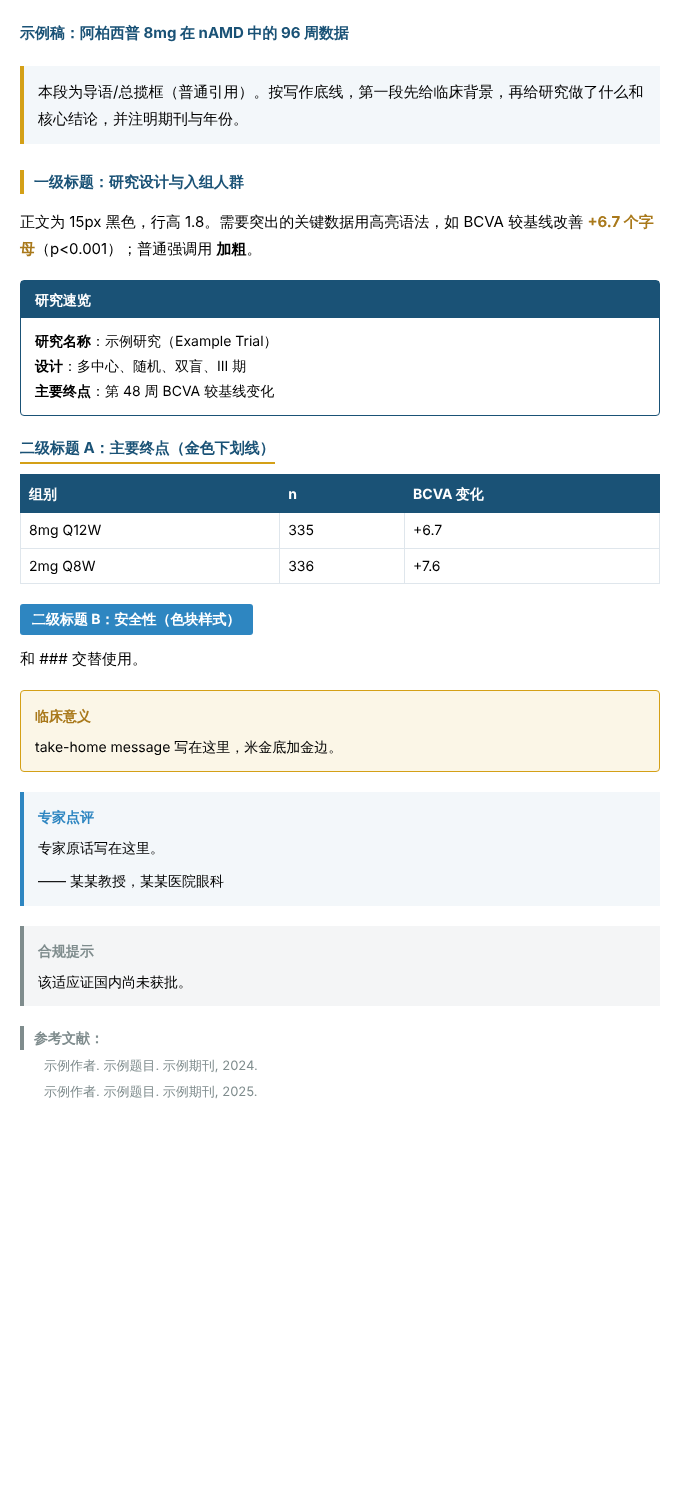
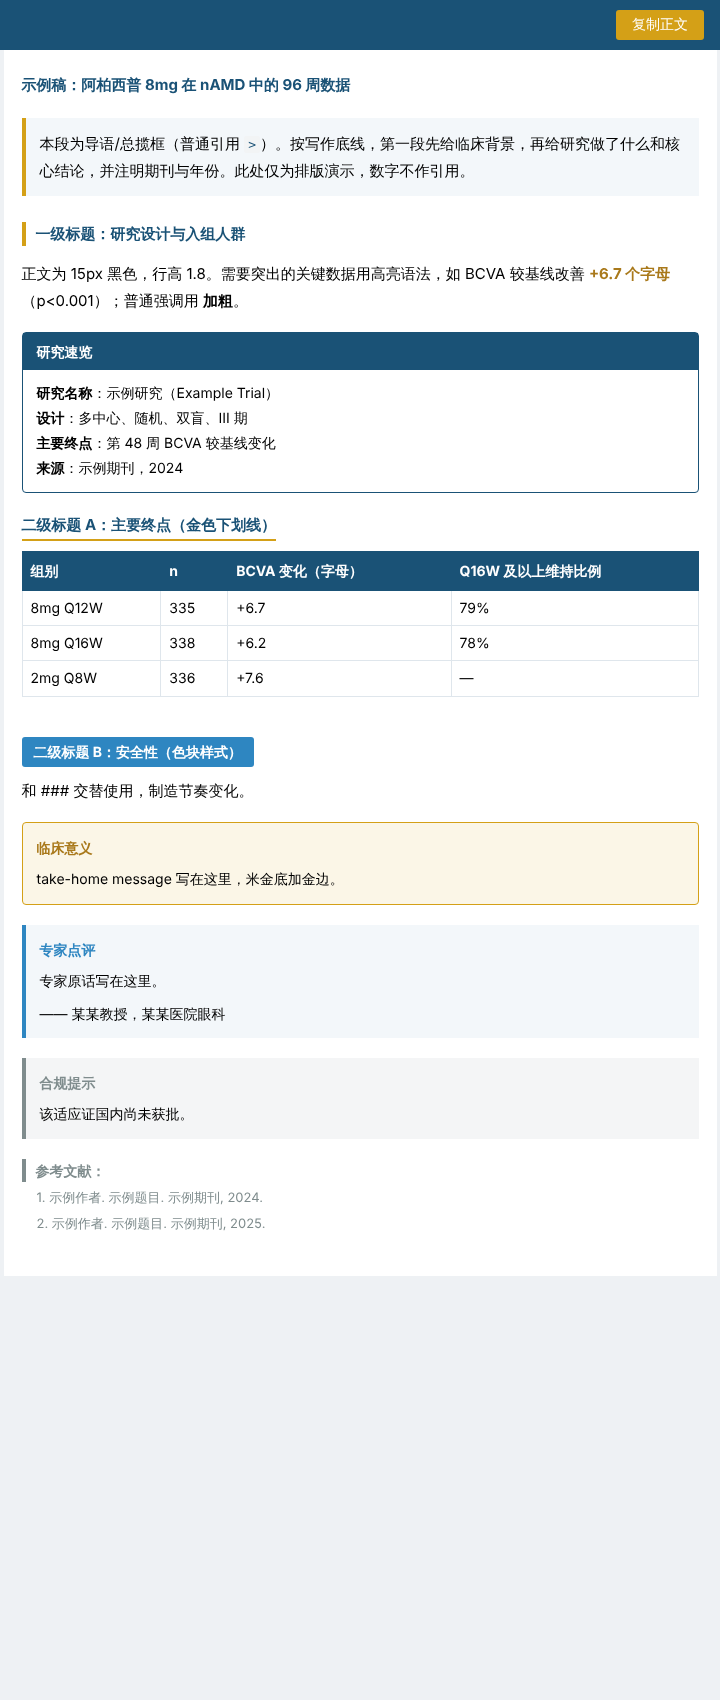
新增 md2wechat：doocs/md 渲染 + juice 内联 + 微信规范自检，一条命令出可粘贴 HTML
Claude-Session: https://claude.ai/code/session_0115fqipwp36LcXrNxmswJRV

Changed region(s): [[0.0, 0.0, 1.0, 0.736], [0.9574, 0.4907, 0.9882, 0.5213], [0.9265, 0.1227, 0.9574, 0.1533]]

diff --git a/wechat-md-theme/示例稿.蓝金.html b/wechat-md-theme/示例稿.蓝金.html
@@ -1,0 +1,52 @@
+<!doctype html>
+<html lang="zh-CN"><head><meta charset="utf-8"><meta name="viewport" content="width=device-width,initial-scale=1">
+<title>示例稿</title></head>
+<body style="margin:0; background:#eef1f4;">
+<div style="position:sticky; top:0; z-index:99; background:#1a5276; padding:10px 16px; text-align:right;">
+<button onclick="copyContent()" style="background:#d4a017; color:#ffffff; border:none; padding:6px 16px; border-radius:3px; font-size:14px; cursor:pointer;">复制正文</button>
+</div>
+<div id="article" style="max-width:677px; margin:0 auto; background:#ffffff; padding:22px 18px; font-size:15px; line-height:1.8; color:#000000; text-align:left;">
+
+<section style="font-family: -apple-system, 'PingFang SC', 'Microsoft YaHei', sans-serif; font-size: 15px; line-height: 1.8; color: #000000; text-align: left;"><h1 data-heading="true" style="border-bottom: 2px solid #0F4C81; display: block; margin: 0 0 20px; padding: 0; border: none; background: none; font-size: 15px; font-weight: bold; line-height: 1.7; color: #1a5276; text-align: left;">示例稿：阿柏西普 8mg 在 nAMD 中的 96 周数据</h1><blockquote style="margin-bottom: 1em; margin: 0 0 20px; padding: 12px 14px; border: none; border-left: 4px solid #d4a017; border-radius: 0; background: #f3f7fa; font-style: normal; color: #000000; text-align: left; margin-left: 0; margin-right: 0; margin-top: 0;"><p style="padding: 0; display: block; margin: 0 0 8px; font-size: 15px; line-height: 1.8; letter-spacing: 0; color: #000000; text-align: left; margin-bottom: 0;">本段为导语/总揽框（普通引用 <code style="font-size: 13px; color: #1a5276; background: #f2f4f5; padding: 1px 4px; border-radius: 2px;">&gt;</code>）。按写作底线，第一段先给临床背景，再给研究做了什么和核心结论，并注明期刊与年份。此处仅为排版演示，数字不作引用。</p></blockquote><h2 data-heading="true" style="display: block; margin: 26px 0 14px; padding: 0 0 0 10px; border: none; border-left: 4px solid #d4a017; background: none; font-size: 15px; font-weight: bold; line-height: 1.6; color: #1a5276; text-align: left;">一级标题：研究设计与入组人群</h2><p style="margin: 0 0 18px; padding: 0; font-size: 15px; line-height: 1.8; letter-spacing: 0; color: #000000; text-align: left;">正文为 15px 黑色，行高 1.8。需要突出的关键数据用高亮语法，如 BCVA 较基线改善 <span style="background-color: #0F4C81; background: none; padding: 0; border-radius: 0; font-weight: bold; color: #a9791b;">+6.7 个字母</span>（p&lt;0.001）；普通强调用 <strong style="font-size: inherit; font-weight: bold; color: #000000;">加粗</strong>。</p><blockquote style="margin-bottom: 1em; margin: 0 0 20px; border-left: 4px solid #d4a017; font-style: normal; color: #000000; text-align: left; margin-left: 0; margin-right: 0; margin-top: 0; padding: 0 14px 12px; border: 1px solid #1a5276; border-radius: 4px; background: #ffffff;">
+<p style="line-height: 1.8; letter-spacing: 0; align-items: center; gap: 0.5em; margin-bottom: 0.5em; display: block; font-weight: bold; text-align: left; margin: 0 -14px 10px; padding: 6px 14px; background: #1a5276; font-size: 14px; color: #ffffff;">研究速览</p>
+<p style="padding: 0; display: block; margin: 0 0 8px; line-height: 1.8; letter-spacing: 0; color: #000000; text-align: left; margin-bottom: 0; font-size: 14px;"><strong style="font-size: inherit; font-weight: bold; color: #000000;">研究名称</strong>：示例研究（Example Trial）<br><strong style="font-size: inherit; font-weight: bold; color: #000000;">设计</strong>：多中心、随机、双盲、III 期<br><strong style="font-size: inherit; font-weight: bold; color: #000000;">主要终点</strong>：第 48 周 BCVA 较基线变化<br><strong style="font-size: inherit; font-weight: bold; color: #000000;">来源</strong>：示例期刊，2024</p></blockquote>
+<h3 data-heading="true" style="padding-left: 8px; border-left: 3px solid #0F4C81; display: table; margin: 20px 0 10px; padding: 0 0 2px; border: none; border-bottom: 2px solid #d4a017; background: none; font-size: 15px; font-weight: bold; line-height: 1.6; color: #1a5276; text-align: left;">二级标题 A：主要终点（金色下划线）</h3>
+        <section style="font-family: -apple-system, 'PingFang SC', 'Microsoft YaHei', sans-serif; font-size: 15px; line-height: 1.8; color: #000000; text-align: left; max-width: 100%; overflow: auto; -webkit-overflow-scrolling: touch;">
+          <table style="width: 100%; margin: 0 0 20px; font-size: 14px; color: #000000; border-collapse: collapse; min-width: 100%;" width="100%">
+            <thead style="font-weight: bold; background: #1a5276; color: #ffffff;"><tr><th style="word-break: keep-all; padding: 6px 8px; border: 1px solid #1a5276; background: #1a5276; font-weight: bold; color: #ffffff; text-align: left;" align="left">组别</th><th style="word-break: keep-all; padding: 6px 8px; border: 1px solid #1a5276; background: #1a5276; font-weight: bold; color: #ffffff; text-align: left;" align="left">n</th><th style="word-break: keep-all; padding: 6px 8px; border: 1px solid #1a5276; background: #1a5276; font-weight: bold; color: #ffffff; text-align: left;" align="left">BCVA 变化（字母）</th><th style="word-break: keep-all; padding: 6px 8px; border: 1px solid #1a5276; background: #1a5276; font-weight: bold; color: #ffffff; text-align: left;" align="left">Q16W 及以上维持比例</th></tr></thead>
+            <tbody><tr><td style="word-break: keep-all; padding: 6px 8px; border: 1px solid #dfe6ec; line-height: 1.6; color: #000000; text-align: left;" align="left">8mg Q12W</td><td style="word-break: keep-all; padding: 6px 8px; border: 1px solid #dfe6ec; line-height: 1.6; color: #000000; text-align: left;" align="left">335</td><td style="word-break: keep-all; padding: 6px 8px; border: 1px solid #dfe6ec; line-height: 1.6; color: #000000; text-align: left;" align="left">+6.7</td><td style="word-break: keep-all; padding: 6px 8px; border: 1px solid #dfe6ec; line-height: 1.6; color: #000000; text-align: left;" align="left">79%</td></tr><tr><td style="word-break: keep-all; padding: 6px 8px; border: 1px solid #dfe6ec; line-height: 1.6; color: #000000; text-align: left;" align="left">8mg Q16W</td><td style="word-break: keep-all; padding: 6px 8px; border: 1px solid #dfe6ec; line-height: 1.6; color: #000000; text-align: left;" align="left">338</td><td style="word-break: keep-all; padding: 6px 8px; border: 1px solid #dfe6ec; line-height: 1.6; color: #000000; text-align: left;" align="left">+6.2</td><td style="word-break: keep-all; padding: 6px 8px; border: 1px solid #dfe6ec; line-height: 1.6; color: #000000; text-align: left;" align="left">78%</td></tr><tr><td style="word-break: keep-all; padding: 6px 8px; border: 1px solid #dfe6ec; line-height: 1.6; color: #000000; text-align: left;" align="left">2mg Q8W</td><td style="word-break: keep-all; padding: 6px 8px; border: 1px solid #dfe6ec; line-height: 1.6; color: #000000; text-align: left;" align="left">336</td><td style="word-break: keep-all; padding: 6px 8px; border: 1px solid #dfe6ec; line-height: 1.6; color: #000000; text-align: left;" align="left">+7.6</td><td style="word-break: keep-all; padding: 6px 8px; border: 1px solid #dfe6ec; line-height: 1.6; color: #000000; text-align: left;" align="left">—</td></tr></tbody>
+          </table>
+        </section>
+      <h4 data-heading="true" style="display: table; margin: 20px 0 10px; padding: 4px 12px; border: none; border-radius: 3px; background: #2e86c1; font-size: 14px; font-weight: bold; line-height: 1.6; color: #ffffff; text-align: left;">二级标题 B：安全性（色块样式）</h4><p style="margin: 0 0 18px; padding: 0; font-size: 15px; line-height: 1.8; letter-spacing: 0; color: #000000; text-align: left;">和 ### 交替使用，制造节奏变化。</p><blockquote style="margin-bottom: 1em; margin: 0 0 20px; padding: 12px 14px; border-left: 4px solid #d4a017; font-style: normal; color: #000000; text-align: left; margin-left: 0; margin-right: 0; margin-top: 0; border: 1px solid #d4a017; border-radius: 4px; background: #fbf6e7;">
+<p style="padding: 0; line-height: 1.8; letter-spacing: 0; align-items: center; gap: 0.5em; margin-bottom: 0.5em; display: block; margin: 0 0 6px; font-weight: bold; text-align: left; font-size: 14px; color: #a9791b;">临床意义</p>
+<p style="padding: 0; display: block; margin: 0 0 8px; line-height: 1.8; letter-spacing: 0; color: #000000; text-align: left; margin-bottom: 0; font-size: 14px;">take-home message 写在这里，米金底加金边。</p></blockquote>
+<blockquote style="margin-bottom: 1em; margin: 0 0 20px; padding: 12px 14px; font-style: normal; color: #000000; text-align: left; margin-left: 0; margin-right: 0; margin-top: 0; border: none; border-left: 4px solid #2e86c1; border-radius: 0; background: #f3f7fa;">
+<p style="padding: 0; line-height: 1.8; letter-spacing: 0; align-items: center; gap: 0.5em; margin-bottom: 0.5em; display: block; margin: 0 0 6px; font-weight: bold; text-align: left; font-size: 14px; color: #2e86c1;">专家点评</p>
+<p style="padding: 0; display: block; margin: 0 0 8px; line-height: 1.8; letter-spacing: 0; color: #000000; text-align: left; font-size: 14px;">专家原话写在这里。</p><p style="padding: 0; display: block; margin: 0 0 8px; line-height: 1.8; letter-spacing: 0; color: #000000; text-align: left; margin-bottom: 0; font-size: 14px;">—— 某某教授，某某医院眼科</p></blockquote>
+<blockquote style="margin-bottom: 1em; margin: 0 0 20px; padding: 12px 14px; border-radius: 0; font-style: normal; color: #000000; text-align: left; margin-left: 0; margin-right: 0; margin-top: 0; border: none; border-left: 4px solid #7f8c8d; background: #f4f5f6;">
+<p style="padding: 0; line-height: 1.8; letter-spacing: 0; align-items: center; gap: 0.5em; margin-bottom: 0.5em; display: block; margin: 0 0 6px; font-weight: bold; text-align: left; font-size: 14px; color: #7f8c8d;">合规提示</p>
+<p style="padding: 0; display: block; margin: 0 0 8px; line-height: 1.8; letter-spacing: 0; color: #000000; text-align: left; margin-bottom: 0; font-size: 14px;">该适应证国内尚未获批。</p></blockquote>
+<blockquote style="margin-bottom: 1em; margin: 0 0 20px; border-left: 4px solid #d4a017; border-radius: 0; font-style: normal; color: #000000; text-align: left; margin-left: 0; margin-right: 0; margin-top: 0; padding: 0; border: none; background: none;">
+<p style="padding: 0; letter-spacing: 0; align-items: center; gap: 0.5em; margin-bottom: 0.5em; display: block; font-weight: bold; text-align: left; margin: 0 0 4px; line-height: 1.7; padding-left: 10px; border-left: 4px solid #7f8c8d; font-size: 14px; color: #7f8c8d;">参考文献：</p>
+<ol style="margin-left: 0; padding-left: 1em; text-align: left; margin: 0; color: #7f8c8d;"><li style="display: block; text-align: left; margin: 0 0 4px; font-size: 13px; line-height: 1.7; color: #7f8c8d;">1. 示例作者. 示例题目. 示例期刊, 2024.</li><li style="display: block; text-align: left; margin: 0 0 4px; font-size: 13px; line-height: 1.7; color: #7f8c8d;">2. 示例作者. 示例题目. 示例期刊, 2025.</li></ol></blockquote>
+
+    
+  
+    
+  
+    
+  </section>
+</div>
+<script>
+async function copyContent() {
+  var html = document.getElementById('article').outerHTML
+  try {
+    await navigator.clipboard.write([new ClipboardItem({ 'text/html': new Blob([html], { type: 'text/html' }), 'text/plain': new Blob([document.getElementById('article').innerText], { type: 'text/plain' }) })])
+  } catch (e) {
+    var h = function (ev) { ev.clipboardData.setData('text/html', html); ev.preventDefault() }
+    document.addEventListener('copy', h); document.execCommand('copy'); document.removeEventListener('copy', h)
+  }
+  alert('已复制，可直接粘贴到公众号编辑器')
+}
+</script>
+</body></html>

diff --git a/wechat-md-theme/themes/01-蓝金-医学进行时.css b/wechat-md-theme/themes/01-蓝金-医学进行时.css
@@ -70,7 +70,7 @@ figcaption, .md-figcaption { margin-top: 6px; font-size: 12px; line-height: 1.6;
 
 /* 表格 */
 table { width: 100%; margin: 0 0 20px; border-collapse: collapse; font-size: 14px; color: #000000; }
-thead { background: #1a5276; }
+thead { background: #1a5276; color: #ffffff; }
 th { padding: 6px 8px; border: 1px solid #1a5276; background: #1a5276; font-weight: bold; color: #ffffff; text-align: left; }
 td { padding: 6px 8px; border: 1px solid #dfe6ec; line-height: 1.6; color: #000000; text-align: left; }
 

diff --git a/wechat-md-theme/themes/02-墨绿金-综述基础.css b/wechat-md-theme/themes/02-墨绿金-综述基础.css
@@ -70,7 +70,7 @@ figcaption, .md-figcaption { margin-top: 6px; font-size: 12px; line-height: 1.6;
 
 /* 表格 */
 table { width: 100%; margin: 0 0 20px; border-collapse: collapse; font-size: 14px; color: #000000; }
-thead { background: #1e5631; }
+thead { background: #1e5631; color: #ffffff; }
 th { padding: 6px 8px; border: 1px solid #1e5631; background: #1e5631; font-weight: bold; color: #ffffff; text-align: left; }
 td { padding: 6px 8px; border: 1px solid #dfe6ec; line-height: 1.6; color: #000000; text-align: left; }
 

diff --git a/wechat-md-theme/themes/03-深紫银-神经眼科基因.css b/wechat-md-theme/themes/03-深紫银-神经眼科基因.css
@@ -70,7 +70,7 @@ figcaption, .md-figcaption { margin-top: 6px; font-size: 12px; line-height: 1.6;
 
 /* 表格 */
 table { width: 100%; margin: 0 0 20px; border-collapse: collapse; font-size: 14px; color: #000000; }
-thead { background: #4a2c6d; }
+thead { background: #4a2c6d; color: #ffffff; }
 th { padding: 6px 8px; border: 1px solid #4a2c6d; background: #4a2c6d; font-weight: bold; color: #ffffff; text-align: left; }
 td { padding: 6px 8px; border: 1px solid #dfe6ec; line-height: 1.6; color: #000000; text-align: left; }
 

diff --git a/wechat-md-theme/themes/04-青灰橙-视光进行时.css b/wechat-md-theme/themes/04-青灰橙-视光进行时.css
@@ -70,7 +70,7 @@ figcaption, .md-figcaption { margin-top: 6px; font-size: 12px; line-height: 1.6;
 
 /* 表格 */
 table { width: 100%; margin: 0 0 20px; border-collapse: collapse; font-size: 14px; color: #000000; }
-thead { background: #16697a; }
+thead { background: #16697a; color: #ffffff; }
 th { padding: 6px 8px; border: 1px solid #16697a; background: #16697a; font-weight: bold; color: #ffffff; text-align: left; }
 td { padding: 6px 8px; border: 1px solid #dfe6ec; line-height: 1.6; color: #000000; text-align: left; }
 

diff --git a/wechat-md-theme/README.md b/wechat-md-theme/README.md
@@ -47,6 +47,29 @@
 
 提示块 `[!XXX]` 后面同一行的文字就是框标题，可以按需改写，例如 `> [!TIP] 要点速览`。完整示例见 `示例稿.md`：把它粘进编辑器，就能看到所有组件的效果。
 
+## 不开网页：命令行直接出微信 HTML（md2wechat.mjs）
+
+这条路径和网页版「复制」用的是同一套管线：doocs/md 渲染器渲染，叠加本目录主题，再用 juice 把样式内联。之后脚本会清掉 `<style>`、class、CSS 变量和 `color-mix()`，给块元素补上显式对齐，按 med-wechat-publishing §5 自检，最后输出带「复制正文」按钮的成品 .html。
+
+一次性安装需要 Node.js 22.22.2 或更高版本：
+
+```bash
+git clone https://github.com/doocs/md.git ~/doocs-md
+cd ~/doocs-md && corepack enable && pnpm install   # 国内用默认镜像即可
+cd <本仓库>/wechat-md-theme && npm install          # 安装 juice
+```
+
+每次出稿：
+
+```bash
+MD_REPO=~/doocs-md node md2wechat.mjs 稿件.md themes/01-蓝金-医学进行时.css 稿件.wechat.html
+```
+
+- 第二个参数是主题，省略时默认用蓝金。
+- 第三个参数是输出路径，省略时输出为 `稿件.wechat.html`。
+- 自检发现 flex、渐变、两端对齐、`text-align:start` 或 CSS 变量残留时，脚本会报错，退出码为 1。
+- 用浏览器打开生成的 .html，点「复制正文」，再粘贴到公众号编辑器即可。
+
 ## 修改与重新生成
 
 所有配色都在 `build.mjs` 顶部的 `themes` 数组里。改完后运行：
